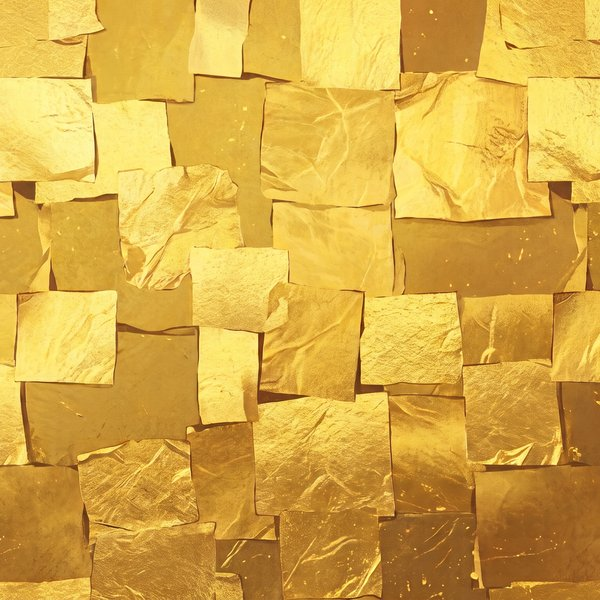
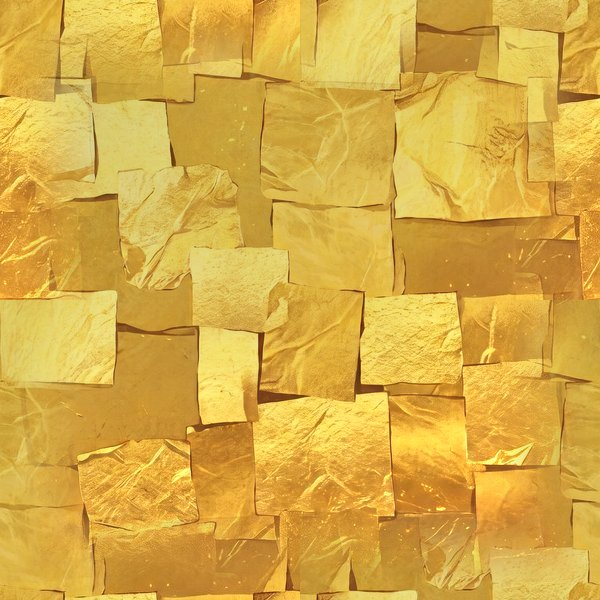
Make wall textures seamless with even lighting
Each texture's light is evened out (dividing by a heavily blurred
brightness map). Galvalume, tile and log become 2x2 mirrored tiles;
gold fades its edges into a half-shifted copy; candy is cut at the
pattern's own repeat. Tiles now keep their aspect when drawn.

Claude-Session: https://claude.ai/code/session_019RTRH81Sf379n12V2CwBBc

diff --git a/builder.html b/builder.html
@@ -371,9 +371,9 @@ body.gloom{background:var(--gloom) url(assets/ui/bg_gloom.jpg) center top / cove
       { id:"castle", name:"お城", src:P+"house_castle.webp", shape:P+"house_castle_shape.png" }
     ]},
     { key:"wall", label:"label_wall", opts:[
-      { id:"tile", name:"白いタイル", src:P+"wall_tile.jpg" },
-      { id:"galva", name:"ガルバリウム", src:P+"wall_galva.jpg", tile:.8 },
-      { id:"log", name:"ログハウス風", src:P+"wall_log.jpg" },
+      { id:"tile", name:"白いタイル", src:P+"wall_tile.jpg", tile:2 },     // 2x2 mirrored, seamless
+      { id:"galva", name:"ガルバリウム", src:P+"wall_galva.jpg", tile:1.6 },
+      { id:"log", name:"ログハウス風", src:P+"wall_log.jpg", tile:2 },
       { id:"candy", name:"お菓子の家風", src:P+"wall_candy.jpg" },
       { id:"gold", name:"金ぱく", src:P+"wall_gold.jpg" }
     ]},
@@ -607,9 +607,9 @@ body.gloom{background:var(--gloom) url(assets/ui/bg_gloom.jpg) center top / cove
     f.width = Math.ceil(r.w); f.height = Math.ceil(r.h);
     var fx = f.getContext("2d");
     if (tImg){
-      var t = WALL_TILE * (tile || 1);
-      for (var yy = 0; yy < f.height; yy += t)
-        for (var xx = 0; xx < f.width; xx += t) fx.drawImage(tImg, xx, yy, t, t);
+      var tw = WALL_TILE * (tile || 1), th = tw * tImg.height / tImg.width;   // tiles keep their shape
+      for (var yy = 0; yy < f.height; yy += th)
+        for (var xx = 0; xx < f.width; xx += tw) fx.drawImage(tImg, xx, yy, tw, th);
     } else {
       fx.fillStyle = BARE_WALL;
       fx.fillRect(0, 0, f.width, f.height);
